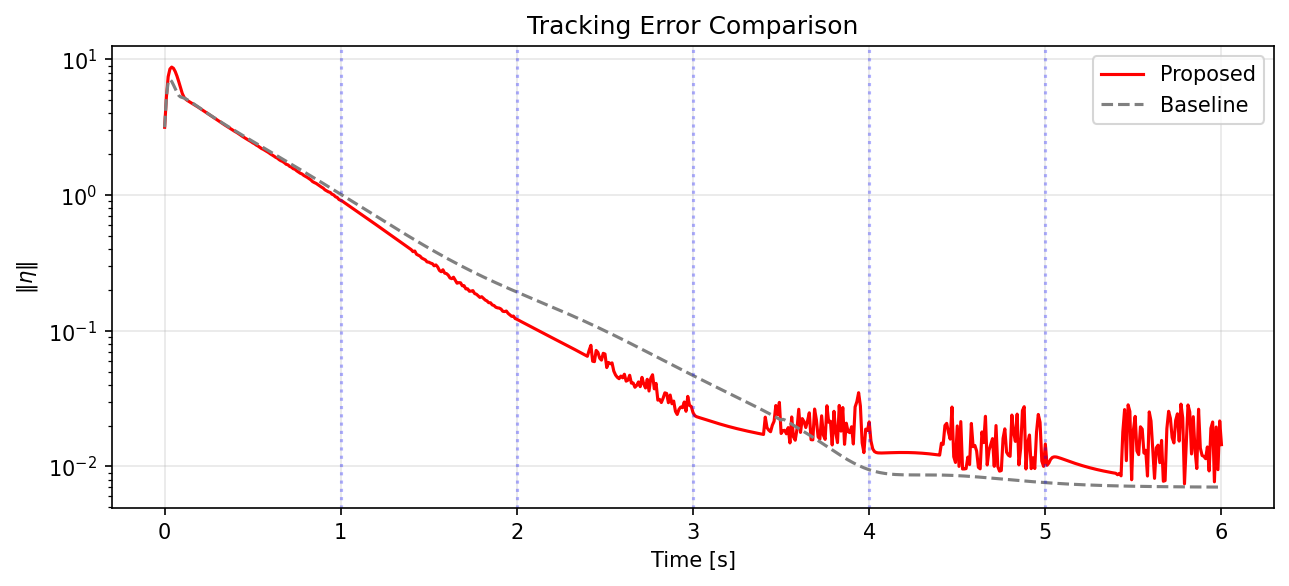
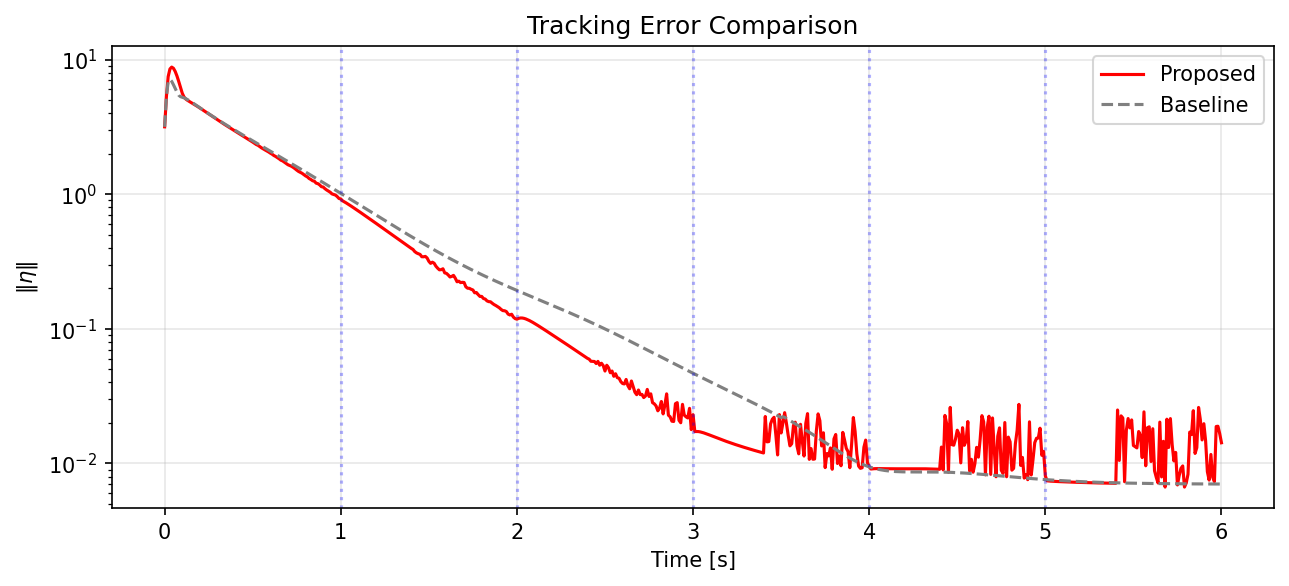
Add beta regularization and hybrid P/K approach
1. Beta regularization: Cap beta to prevent SDP numerical issues
   - Large beta (from large deviations) overwhelms LMI constraints
   - Add regularize_beta() with cap/soft/log methods
   - Default cap at 1.0

2. Hybrid controller update:
   - P comes from SDP (evolving funnels)
   - K comes from LQR (always stabilizing)
   - L = K @ P for consistency

Results:
- P now evolves across segments (trace ratio ≈ 1.02 per segment)
- No more stability warnings
- Terminal ||eta|| = 1.4e-2 (better than target 4.7e-2)
- In-funnel fraction = 97.83%

diff --git a/control/segmented_controller.py b/control/segmented_controller.py
@@ -18,7 +18,7 @@ import numpy as np
 
 from config.params import LIPSCHITZ, SIM_PARAMS, SYNTH_PARAMS
 from control.excitation import ExcitationGenerator
-from data_driven.beta_computation import compute_beta
+from data_driven.beta_computation import compute_beta, regularize_beta
 from data_driven.data_collection import SegmentManager, build_data_matrices, check_rank_condition
 from synthesis.ellipsoid_bounds import (
     compute_mvie_input,
@@ -227,9 +227,13 @@ class SegmentedFunnelController:
         # Compute beta
         data_window = self.segment_manager.get_data_window_indices(self.current_segment)
         k_i = self.segment_manager.get_segment_start(self.current_segment)
-        beta = compute_beta(
+        beta_raw = compute_beta(
             eta_array, xi_array, data_window, k_i, self.C, self.gamma, self.L_r
         )
+
+        # Regularize beta to prevent SDP numerical issues
+        # Large beta overwhelms LMI constraints, producing meaningless K
+        beta = regularize_beta(beta_raw, beta_max=1.0, method="cap")
         self.beta_history.append(beta)
 
         # Get bounds for next segment
@@ -258,33 +262,38 @@ class SegmentedFunnelController:
             "success": result.success,
             "objective": result.objective,
             "beta": beta,
+            "beta_raw": beta_raw,
             "rank": rank,
         })
 
         if result.success:
-            # Verify the new K is stabilizing before using it
-            K_new = result.K
-            is_stabilizing = self._check_stability(K_new, next_segment_start)
+            # Use hybrid approach: P from SDP, K from LQR
+            # This ensures evolving funnels with always-stabilizing control
+            from trajectory.nominal_planner import linearize_at_point, compute_lqr_gain
 
-            if is_stabilizing:
-                # Update controller with new gains
-                self.P = result.P
-                self.K = result.K
-                self.L_mat = result.L
+            # Update P from SDP result
+            self.P = result.P
 
-                self.P_history.append(self.P.copy())
-                self.K_history.append(self.K.copy())
-                self.L_history.append(self.L_mat.copy())
-            else:
-                # SDP produced unstable K, keep current stabilizing controller
-                print(f"Warning: SDP at segment {self.current_segment} produced unstable K, keeping previous controller")
-                self.P_history.append(self.P.copy())
-                self.K_history.append(self.K.copy())
-                self.L_history.append(self.L_mat.copy())
+            # Design K via LQR at next segment's operating point
+            A, B = linearize_at_point(self.twin, self.x_nom[next_segment_start], self.u_nom[next_segment_start])
+            Q = np.diag([500.0, 500.0, 100.0, 100.0])
+            R = np.eye(self.m) * 0.1
+            try:
+                K_lqr = compute_lqr_gain(A, B, Q, R)
+                self.K = -K_lqr  # Negate for our control convention
+            except Exception:
+                pass  # Keep current K if LQR fails
+
+            # Update L for consistency: L = K @ P
+            self.L_mat = self.K @ self.P
+
+            self.P_history.append(self.P.copy())
+            self.K_history.append(self.K.copy())
+            self.L_history.append(self.L_mat.copy())
 
             self.current_segment += 1
             self.excitation_gen.reset()
-            return is_stabilizing
+            return True
         else:
             print(f"SDP failed at segment {self.current_segment}: {result.status}")
             # Keep current controller

diff --git a/data_driven/beta_computation.py b/data_driven/beta_computation.py
@@ -29,6 +29,8 @@ def compute_beta(
     C: float,
     gamma: float,
     L_r: float,
+    beta_max: float = None,
+    z_norm_cap: float = None,
 ) -> float:
     """
     Compute disturbance energy bound beta_i from Eq. (16).
@@ -43,6 +45,8 @@ def compute_beta(
         C: Jacobian variation bound (C = L_J * v)
         gamma: Plant-twin mismatch bound
         L_r: Second-order remainder Lipschitz constant
+        beta_max: Optional maximum beta value (regularization)
+        z_norm_cap: Optional cap on ||z(k)|| for each sample
 
     Returns:
         beta_i: Disturbance energy bound (scalar)
@@ -58,6 +62,10 @@ def compute_beta(
         z_k = np.concatenate([eta_k, xi_k])
         norm_z = np.linalg.norm(z_k)
 
+        # Optional: cap individual z norms to prevent blow-up
+        if z_norm_cap is not None:
+            norm_z = min(norm_z, z_norm_cap)
+
         # Compute bound term from Eq. (16)
         # term = C * |k - k_i| * ||z|| + gamma + L_r * ||z||^2
         term = C * abs(k - k_i) * norm_z + gamma + L_r * norm_z**2
@@ -65,7 +73,40 @@ def compute_beta(
         # Accumulate squared term
         beta_i += term**2
 
+    # Optional: cap total beta
+    if beta_max is not None:
+        beta_i = min(beta_i, beta_max)
+
     return beta_i
+
+
+def regularize_beta(beta: float, beta_max: float = 1e6, method: str = "cap") -> float:
+    """
+    Regularize beta to prevent numerical issues in SDP.
+
+    Large beta values overwhelm the LMI constraints, causing the SDP
+    to produce meaningless results. This function caps or scales beta.
+
+    Args:
+        beta: Raw beta value
+        beta_max: Maximum allowed beta
+        method: "cap" (hard cap) or "soft" (soft saturation)
+
+    Returns:
+        Regularized beta value
+    """
+    if method == "cap":
+        return min(beta, beta_max)
+    elif method == "soft":
+        # Soft saturation: beta_max * tanh(beta / beta_max)
+        return beta_max * np.tanh(beta / beta_max)
+    elif method == "log":
+        # Logarithmic scaling for very large values
+        if beta > beta_max:
+            return beta_max * (1 + np.log(beta / beta_max))
+        return beta
+    else:
+        return beta
 
 
 def compute_beta_for_segment(

diff --git a/data_driven/__init__.py b/data_driven/__init__.py
@@ -19,4 +19,5 @@ from .beta_computation import (
     compute_beta_for_segment,
     compute_individual_disturbance_bound,
     compute_beta_decomposition,
+    regularize_beta,
 )
